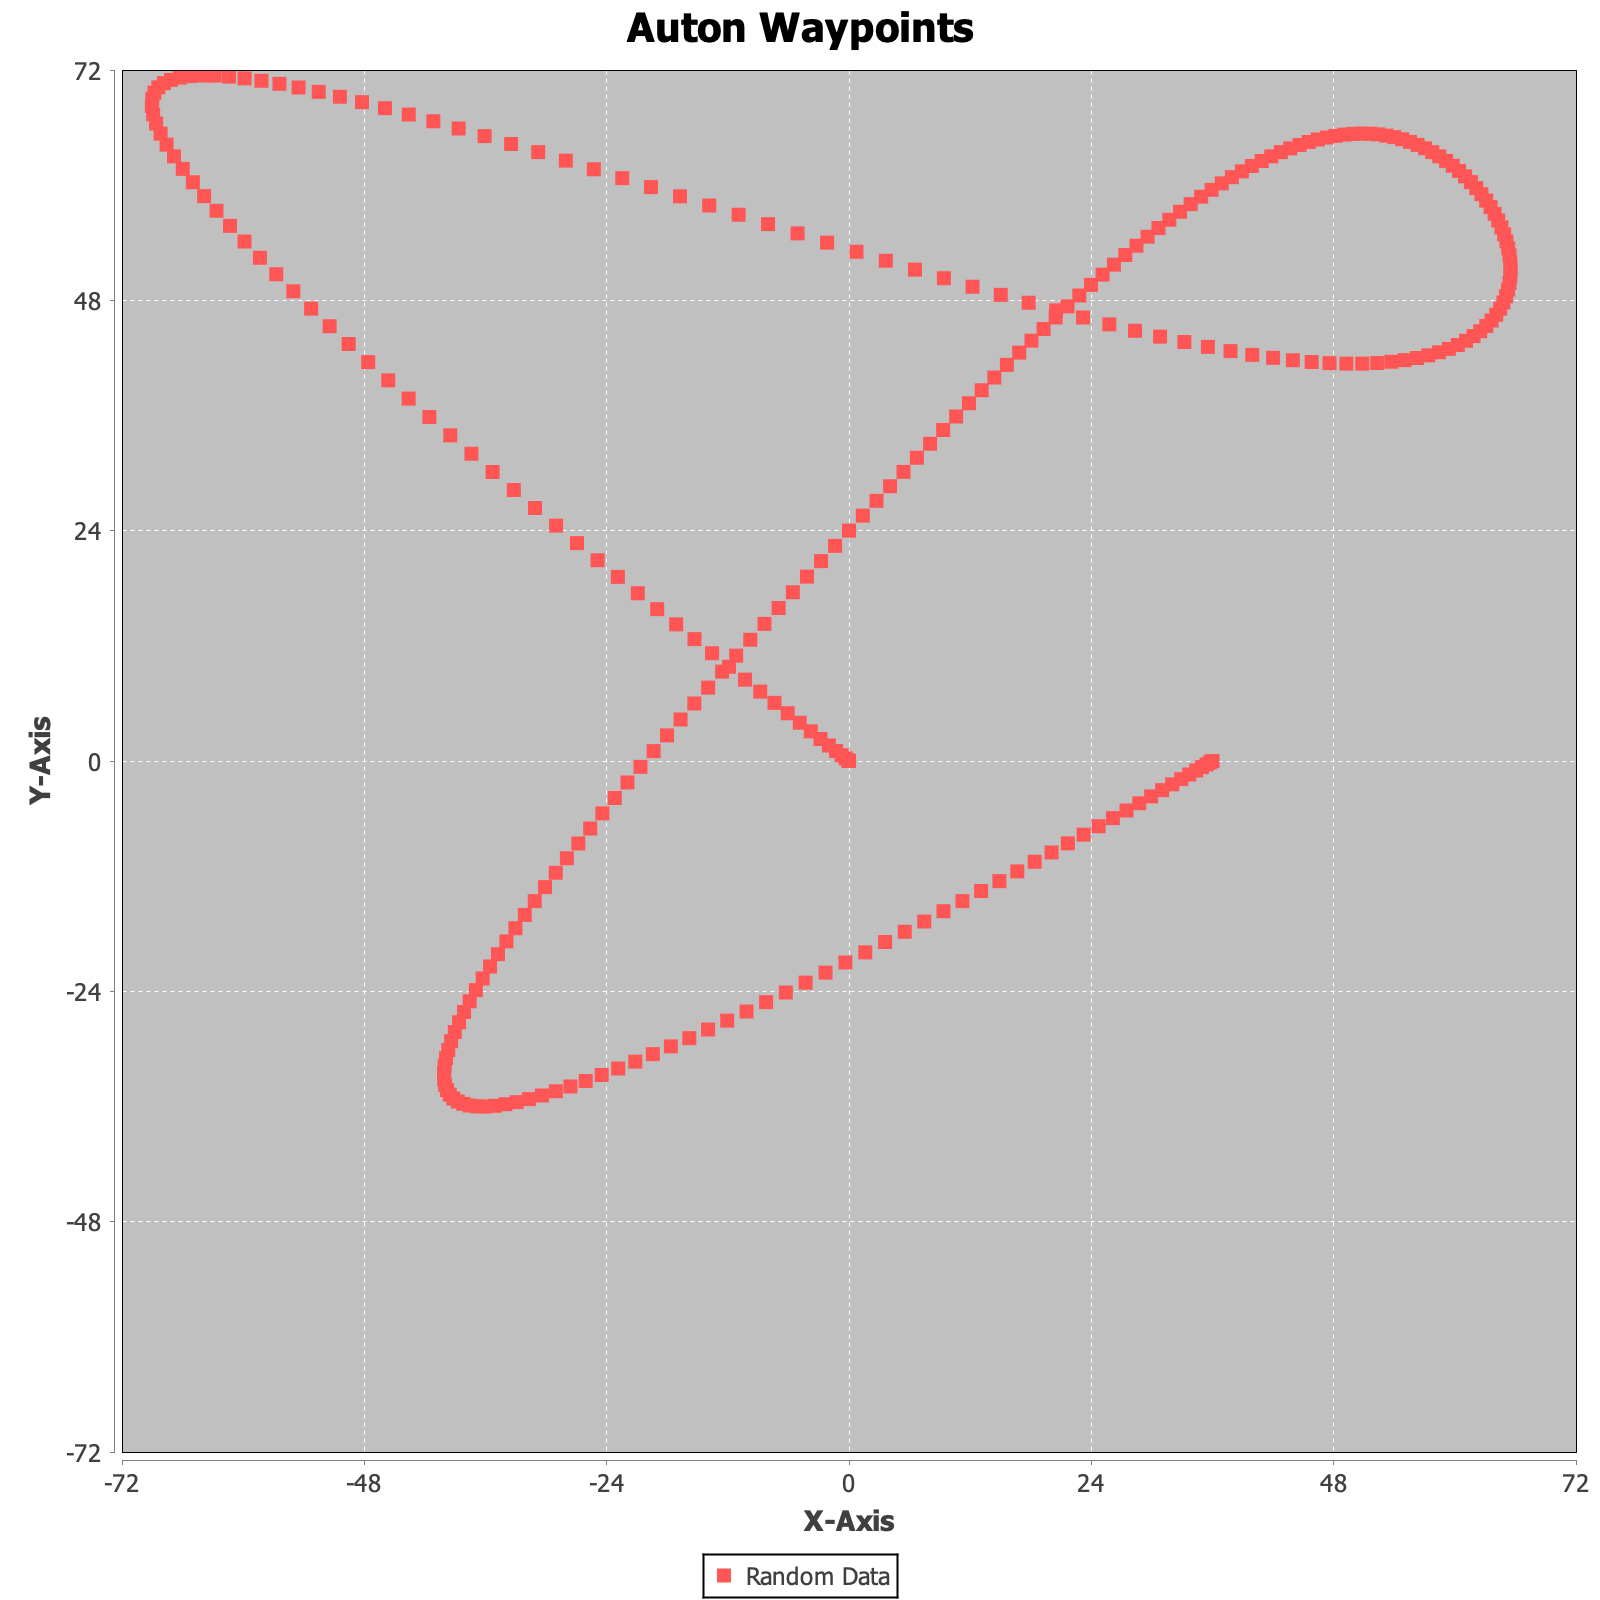
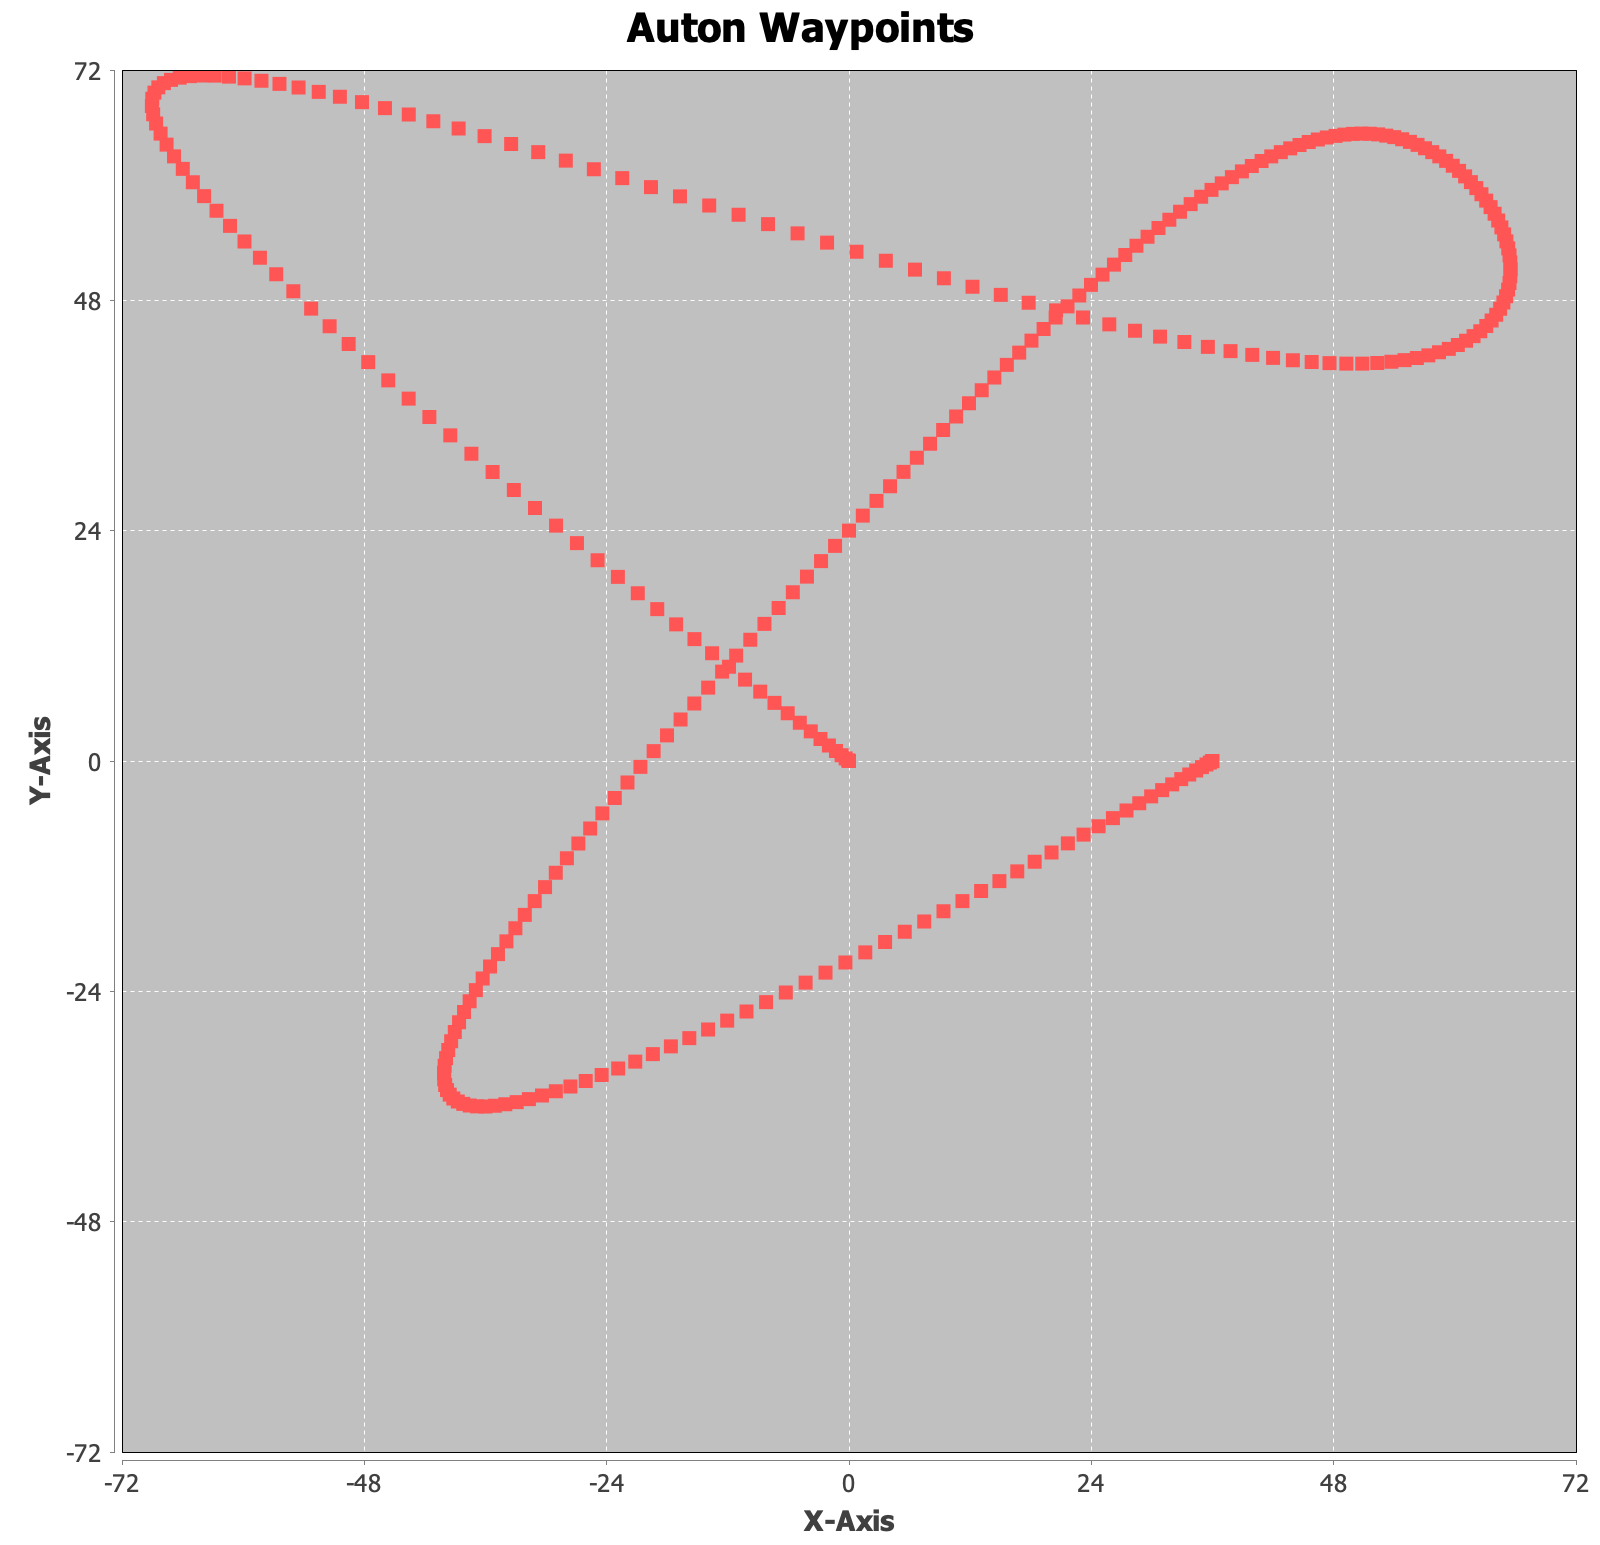
Crop the placeholder legend off the ProfiledPathGenerator chart

diff --git a/index.html b/index.html
@@ -185,7 +185,7 @@
     <article class="feature" id="profiled-path-generator">
       <figure class="feature-media diagram">
         <a href="static/profiled-path-chart.png" target="_blank" rel="noopener" title="Open full size">
-          <img src="static/profiled-path-chart.png" alt="Scatter plot from ProfiledPathGenerator: the discretized cubic-spline path through seven waypoints on the 144-inch FTC field, drawn with JFreeChart" width="1600" height="1600" loading="lazy">
+          <img src="static/profiled-path-chart.png" alt="Scatter plot from ProfiledPathGenerator: the discretized cubic-spline path through seven waypoints on the 144-inch FTC field, drawn with JFreeChart" width="1600" height="1545" loading="lazy">
         </a>
         <figcaption>Output of the repo's own code for its sample waypoints · click to enlarge</figcaption>
       </figure>
